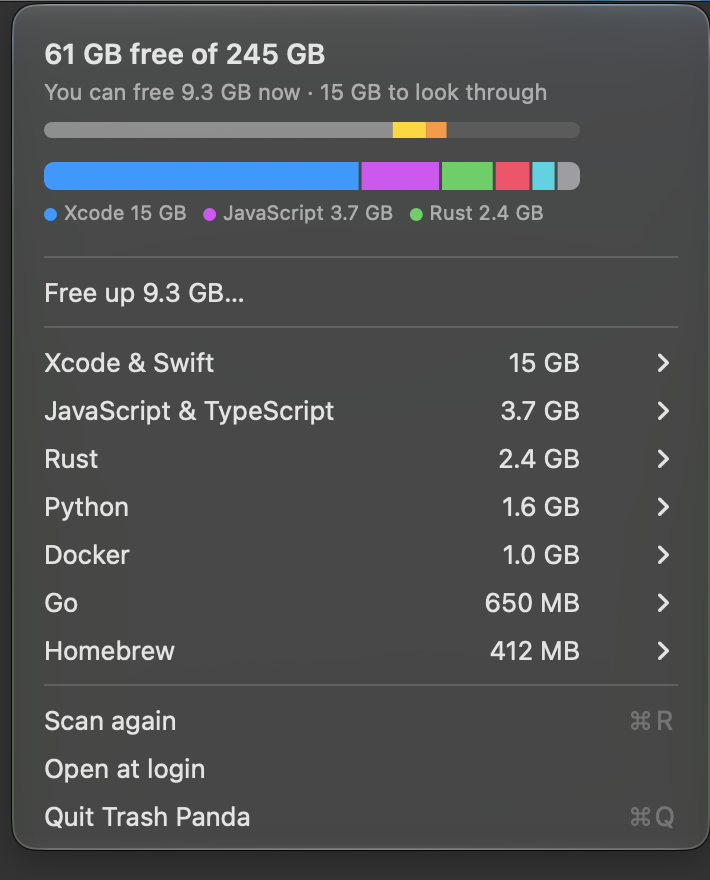
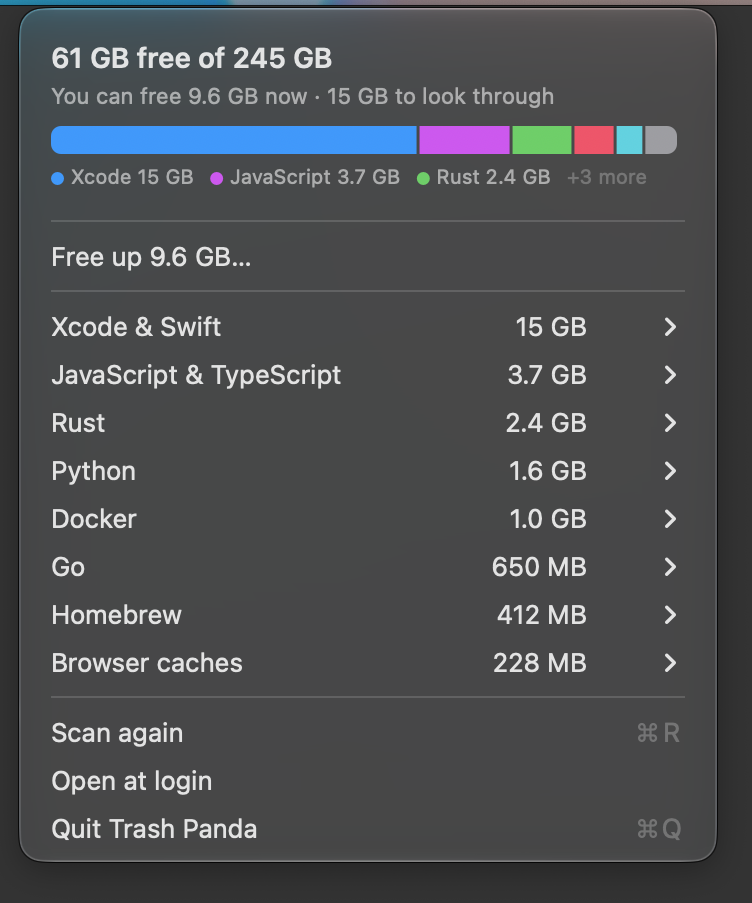
Menu header: one bar, aligned to the menu edge
The disk bar repeated the free-space text, and its yellow slice was only
the review total. It is gone. The split bar now follows the real width
of the menu and ends where the chevrons of the rows end. The header is
shorter. The legend, hit areas, VoiceOver parts, and spinner use the
same width.

README text and the three menu pictures are updated from demo mode.

Closes #45

diff --git a/Sources/TrashPanda/StorageHeaderView.swift b/Sources/TrashPanda/StorageHeaderView.swift
@@ -17,8 +17,7 @@ final class SegmentElement: NSAccessibilityElement {
     }
 }
 
-/// The top of the menu: free space, what you can free, one bar for the disk, and a second bar that
-/// shows where the reclaimable data is. A spinner shows when the app is busy.
+/// The top of the menu: free space, what you can free, and one bar that shows where the reclaimable data is. A spinner shows when the app is busy.
 final class StorageHeaderView: NSView {
     private var disk = DiskUsage(total: 0, free: 0)
     private var reclaimable: Int64 = 0
@@ -37,10 +36,14 @@ final class StorageHeaderView: NSView {
 
     private static let width: CGFloat = 300
     private static let inset: CGFloat = 16
-    private static let barWidth: CGFloat = width - inset * 2
-    private static let plainHeight: CGFloat = 74
-    private static let splitHeight: CGFloat = 116
+    /// The chevrons of the rows below end about 20 points from the right edge of the menu. The bar ends there too.
+    private static let rightInset: CGFloat = 20
+    private static let plainHeight: CGFloat = 54
+    private static let splitHeight: CGFloat = 96
     private static let splitBarHeight: CGFloat = 14
+
+    /// The menu is wider than the first size of this view, so the bar follows the real width.
+    private var barWidth: CGFloat { max(40, bounds.width - Self.inset - Self.rightInset) }
 
     /// The palette has no yellow and no orange. The disk bar uses those two for "review" and "safe".
     private static let palette: [NSColor] = [.systemBlue, .systemPurple, .systemGreen, .systemPink, .systemTeal, .systemIndigo]
@@ -48,11 +51,12 @@ final class StorageHeaderView: NSView {
     var preferredHeight: CGFloat { segments.isEmpty ? Self.plainHeight : Self.splitHeight }
 
     private var splitBarRect: NSRect {
-        NSRect(x: Self.inset, y: bounds.height - 88, width: Self.barWidth, height: Self.splitBarHeight)
+        NSRect(x: Self.inset, y: bounds.height - 68, width: barWidth, height: Self.splitBarHeight)
     }
 
     override init(frame: NSRect) {
         super.init(frame: NSRect(x: 0, y: 0, width: Self.width, height: Self.plainHeight))
+        autoresizingMask = [.width]
         spinner.style = .spinning
         spinner.controlSize = .small
         spinner.isIndeterminate = true
@@ -68,13 +72,24 @@ final class StorageHeaderView: NSView {
         self.reviewable = reviewable
         self.activity = activity
         self.segments = segments
-        self.slots = SplitBar.layout(segments, width: Self.barWidth)
         self.hovered = nil
-        setFrameSize(NSSize(width: Self.width, height: preferredHeight))
-        spinner.frame = NSRect(x: Self.width - 32, y: bounds.height - 30, width: 16, height: 16)
+        setFrameSize(NSSize(width: max(bounds.width, Self.width), height: preferredHeight))
+        relayout()
         if activity == .idle { spinner.stopAnimation(nil) } else { spinner.startAnimation(nil) }
+    }
+
+    /// Called when the width changes: the bar, the hit areas, and the spinner follow the menu width.
+    private func relayout() {
+        slots = SplitBar.layout(segments, width: barWidth)
+        spinner.frame = NSRect(x: bounds.width - Self.rightInset - 16, y: bounds.height - 30, width: 16, height: 16)
         rebuildAccessibility()
         needsDisplay = true
+    }
+
+    override func setFrameSize(_ newSize: NSSize) {
+        let widthChanged = newSize.width != frame.width
+        super.setFrameSize(newSize)
+        if widthChanged { relayout() }
     }
 
     // MARK: Words
@@ -175,33 +190,8 @@ final class StorageHeaderView: NSView {
             .foregroundColor: hovered == nil ? NSColor.secondaryLabelColor : NSColor.labelColor,
         ])
 
-        drawDiskBar()
         drawSplitBar()
         drawLegend()
-    }
-
-    private func drawDiskBar() {
-        guard disk.total > 0 else { return }
-        let bar = NSRect(x: Self.inset, y: bounds.height - 62, width: Self.barWidth, height: 8)
-        let total = Double(disk.total)
-        let other = max(0, disk.used - reclaimable - reviewable)
-        let parts: [(Int64, NSColor)] = [
-            // Used space is clearly darker than free space, in light and dark mode.
-            (other, NSColor.labelColor.withAlphaComponent(0.38)),
-            (reviewable, NSColor.systemYellow),
-            (reclaimable, NSColor.systemOrange),
-            (disk.free, NSColor.labelColor.withAlphaComponent(0.10)),
-        ]
-        NSGraphicsContext.saveGraphicsState()
-        NSBezierPath(roundedRect: bar, xRadius: 4, yRadius: 4).addClip()
-        var x = bar.minX
-        for (bytes, color) in parts where bytes > 0 {
-            let w = bar.width * CGFloat(Double(bytes) / total)
-            color.setFill()
-            NSRect(x: x, y: bar.minY, width: w, height: bar.height).fill()
-            x += w
-        }
-        NSGraphicsContext.restoreGraphicsState()
     }
 
     /// The second bar. Its whole width is the data that can be cleaned now, split by group.
@@ -233,7 +223,7 @@ final class StorageHeaderView: NSView {
                 .foregroundColor: hovered == i ? NSColor.labelColor : NSColor.secondaryLabelColor,
             ]
             let size = text.size(withAttributes: attributes)
-            guard x + 10 + size.width <= Self.width - Self.inset else { break }
+            guard x + 10 + size.width <= bounds.width - Self.rightInset else { break }
             color(i).setFill()
             NSBezierPath(ovalIn: NSRect(x: x, y: y + 2.5, width: 6.5, height: 6.5)).fill()
             text.draw(at: NSPoint(x: x + 10, y: y), withAttributes: attributes)
@@ -244,7 +234,7 @@ final class StorageHeaderView: NSView {
         if left > 0 {
             let more = "+\(left) more"
             let attributes: [NSAttributedString.Key: Any] = [.font: font, .foregroundColor: NSColor.tertiaryLabelColor]
-            if x + more.size(withAttributes: attributes).width <= Self.width - Self.inset {
+            if x + more.size(withAttributes: attributes).width <= bounds.width - Self.rightInset {
                 more.draw(at: NSPoint(x: x, y: y), withAttributes: attributes)
             }
         }

diff --git a/README.md b/README.md
@@ -11,7 +11,7 @@ The app has no window. It has only a menu.
 <p align="center">
   <picture>
     <source media="(prefers-color-scheme: dark)" srcset="assets/menu-dark.png">
-    <img src="assets/menu-light.png" width="340" alt="The Trash Panda menu. It shows 61 GB free of 245 GB, a bar for the disk, a second bar that splits the data you can clean by language, a button to free up 9.3 GB, and one line for each language.">
+    <img src="assets/menu-light.png" width="340" alt="The Trash Panda menu. It shows 61 GB free of 245 GB, one bar that splits the data you can clean by language, a button to free up 9.3 GB, and one line for each language.">
   </picture>
 </p>
 
@@ -20,15 +20,14 @@ The picture uses made-up data.
 Click the panda in the menu bar. The menu shows:
 
 - The free space and the total space of your disk.
-- A bar that splits the disk into used, review, reclaimable, and free space.
-- A second bar that shows where the data that you can clean is. Its whole width is that data. It is split by language or tool, and a short legend names the largest three.
+- A bar that shows where the data that you can clean is. Its whole width is that data. It is split by language or tool, and a short legend names the largest three.
 - The space that you can reclaim now.
 - One line for each language or tool. Open a line to see each item.
 
-**Hover** a part of the second bar to see its name, its size, its share, and how much of it is safe. **Click** a part to open the items of that language or tool. An item of an app that is open, and a line that is for information only, are not in the bar.
+**Hover** a part of the bar to see its name, its size, its share, and how much of it is safe. **Click** a part to open the items of that language or tool. An item of an app that is open, and a line that is for information only, are not in the bar.
 
 <p align="center">
-  <img src="assets/menu-hover.png" width="340" alt="The same menu with the mouse over the JavaScript part of the second bar. The line under the title reads JavaScript and TypeScript, 3.7 GB, 15 percent, 2.2 GB safe.">
+  <img src="assets/menu-hover.png" width="340" alt="The same menu with the mouse over the JavaScript part of the bar. The line under the title reads JavaScript and TypeScript, 3.7 GB, 15 percent, 2.2 GB safe.">
 </p>
 
 ## What it cleans
@@ -225,6 +224,9 @@ We work from the pinned [Roadmap issue](https://github.com/chaitanya-ramji/trash
 - [x] Xcode: old simulator runtimes, devices, and archives (review) ([#27](https://github.com/chaitanya-ramji/trashpanda/issues/27))
 - [x] Xcode: iOS device support files, one item for each iOS version ([#41](https://github.com/chaitanya-ramji/trashpanda/issues/41))
 - [ ] Xcode: keep the device support folder of a connected device ([#43](https://github.com/chaitanya-ramji/trashpanda/issues/43))
+- [x] Menu header: one bar, aligned to the menu edge ([#45](https://github.com/chaitanya-ramji/trashpanda/issues/45))
+- [ ] Browsers: Dia, Zen, and Safari ([#46](https://github.com/chaitanya-ramji/trashpanda/issues/46))
+- [ ] Blocked app: offer Quit and clean ([#47](https://github.com/chaitanya-ramji/trashpanda/issues/47))
 - [x] Clean stale app update downloads ([#13](https://github.com/chaitanya-ramji/trashpanda/issues/13))
 - [x] Browser caches: Chromium browsers ([#14](https://github.com/chaitanya-ramji/trashpanda/issues/14))
 - [x] Browser caches: Firefox ([#15](https://github.com/chaitanya-ramji/trashpanda/issues/15))
